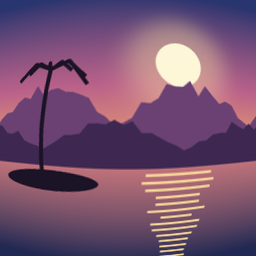
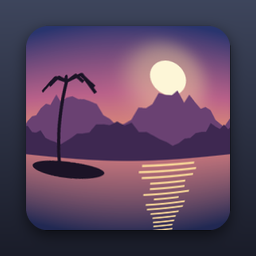
Node Editor: abas nas faixas de Shader/Logic/UI e miniaturas do Compositing no estilo novo

diff --git a/source/release/scripts/startup/bl_operators/node_effects.py b/source/release/scripts/startup/bl_operators/node_effects.py
@@ -276,6 +276,25 @@ class NODE_OT_effect_add(Operator):
 SHELF_TREES = {'CompositorNodeTree', 'ShaderNodeTree', 'RangeLogicTree', 'RangeUITree'}
 
 
+# category of each preset id, per tree; the tabs of the shelf come from these
+SHELF_TABS = {
+    'ShaderNodeTree': (('ALL', "All", ""), ('STYLE', "Stylized", ""), ('NATURE', "Nature", ""),
+                       ('SURFACE', "Surface", "")),
+    'RangeLogicTree': (('ALL', "All", ""), ('MOVE', "Movement", ""), ('GAME', "Gameplay", "")),
+    'RangeUITree': (('ALL', "All", ""), ('SCREEN', "Screens", ""), ('HUD', "HUD", "")),
+}
+_SHELF_CATEGORY = {
+    'TOON_RIM': 'STYLE', 'TOON_OUTLINE': 'STYLE', 'HOLOGRAM': 'STYLE', 'DISSOLVE': 'STYLE',
+    'FUR': 'NATURE', 'GRASS': 'NATURE', 'WATER_WAVES': 'NATURE', 'WIND_LEAVES': 'NATURE',
+    'TRIPLANAR': 'SURFACE',
+    'WALK': 'MOVE', 'JUMP': 'MOVE', 'PLATFORM': 'MOVE',
+    'COLLECT': 'GAME', 'HEALTH': 'GAME', 'DOOR': 'GAME',
+    'MENU': 'SCREEN', 'HUD': 'HUD',
+}
+_TAB_PROP = {'ShaderNodeTree': "node_shelf_tab_shader", 'RangeLogicTree': "node_shelf_tab_logic",
+             'RangeUITree': "node_shelf_tab_ui"}
+
+
 def _shelf_items(tree_type):
     """(operator, property, value, name, tooltip, preview) of each preset of the tree."""
     if tree_type == 'ShaderNodeTree':
@@ -321,9 +340,14 @@ class NODE_PT_effects_shelf(Panel):
         layout = self.layout
         tree_type = context.space_data.tree_type
         if tree_type != 'CompositorNodeTree':
+            wm = context.window_manager
+            prop = _TAB_PROP[tree_type]
+            layout.row(align=True).prop(wm, prop, expand=True)
+            tab = getattr(wm, prop)
             row = layout.row()
             for item in _shelf_items(tree_type):
-                self._item(row, *item)
+                if tab in {'ALL', _SHELF_CATEGORY.get(item[2])}:
+                    self._item(row, *item)
             return
 
         wm = context.window_manager
@@ -341,6 +365,10 @@ def register_props():
     bpy.types.WindowManager.node_effects_tab = EnumProperty(
         name="Category", items=CATEGORIES, default='ALL',
         description="Kind of effect shown in the shelf")
+    for tree_type, prop in _TAB_PROP.items():
+        setattr(bpy.types.WindowManager, prop, EnumProperty(
+            name="Category", items=SHELF_TABS[tree_type], default='ALL',
+            description="Kind of preset shown in the shelf"))
 
 
 def unregister_props():
@@ -349,6 +377,8 @@ def unregister_props():
         bpy.utils.previews.remove(_previews)
         _previews = None
     del bpy.types.WindowManager.node_effects_tab
+    for prop in _TAB_PROP.values():
+        delattr(bpy.types.WindowManager, prop)
 
 
 classes = (

diff --git a/tools/debug/gerar_miniaturas_efeitos.py b/tools/debug/gerar_miniaturas_efeitos.py
@@ -192,6 +192,27 @@ EFEITOS = {
 }
 
 
+def cartao(img, margem=26, raio=22):
+    """Põe a imagem num cartão de cantos redondos com sombra, sobre o fundo escuro
+    das miniaturas das outras árvores (mesmo estilo da faixa inteira)."""
+    y = np.linspace(0, 1, S, dtype=np.float32)[:, None, None]
+    fundo = np.array([0.24, 0.27, 0.36]) * (1 - y) + np.array([0.10, 0.11, 0.16]) * y
+    lado = S - 2 * margem
+    foto = Image.fromarray((img * 255 + 0.5).astype(np.uint8)).resize((lado, lado), Image.LANCZOS)
+    n = S * SS
+    mascara = Image.new("L", (n, n), 0)
+    ImageDraw.Draw(mascara).rounded_rectangle(
+        [margem * SS, margem * SS, (S - margem) * SS, (S - margem) * SS], raio * SS, fill=255)
+    mascara = mascara.resize((S, S), Image.LANCZOS)
+    sombra = np.asarray(mascara.filter(ImageFilter.GaussianBlur(7))).astype(np.float32) / 255
+    sombra = np.roll(sombra, 5, axis=0)
+    out = fundo * (1 - 0.55 * sombra[..., None])
+    camada = np.zeros((S, S, 3), np.float32)
+    camada[margem:margem + lado, margem:margem + lado] = np.asarray(foto).astype(np.float32) / 255
+    m = (np.asarray(mascara).astype(np.float32) / 255)[..., None]
+    return out * (1 - m) + camada * m
+
+
 def main():
     base = paisagem()
     # a base fica um pouco apagada para o Tune Image mostrar diferença
@@ -199,7 +220,7 @@ def main():
     base = l + (base - l) * 0.85
     os.makedirs(OUT, exist_ok=True)
     for nome, f in EFEITOS.items():
-        img = np.clip(f(base), 0, 1)
+        img = cartao(np.clip(f(base), 0, 1))
         Image.fromarray((img * 255 + 0.5).astype(np.uint8)).save(os.path.join(OUT, nome + ".png"))
         print("ok", nome)
 
